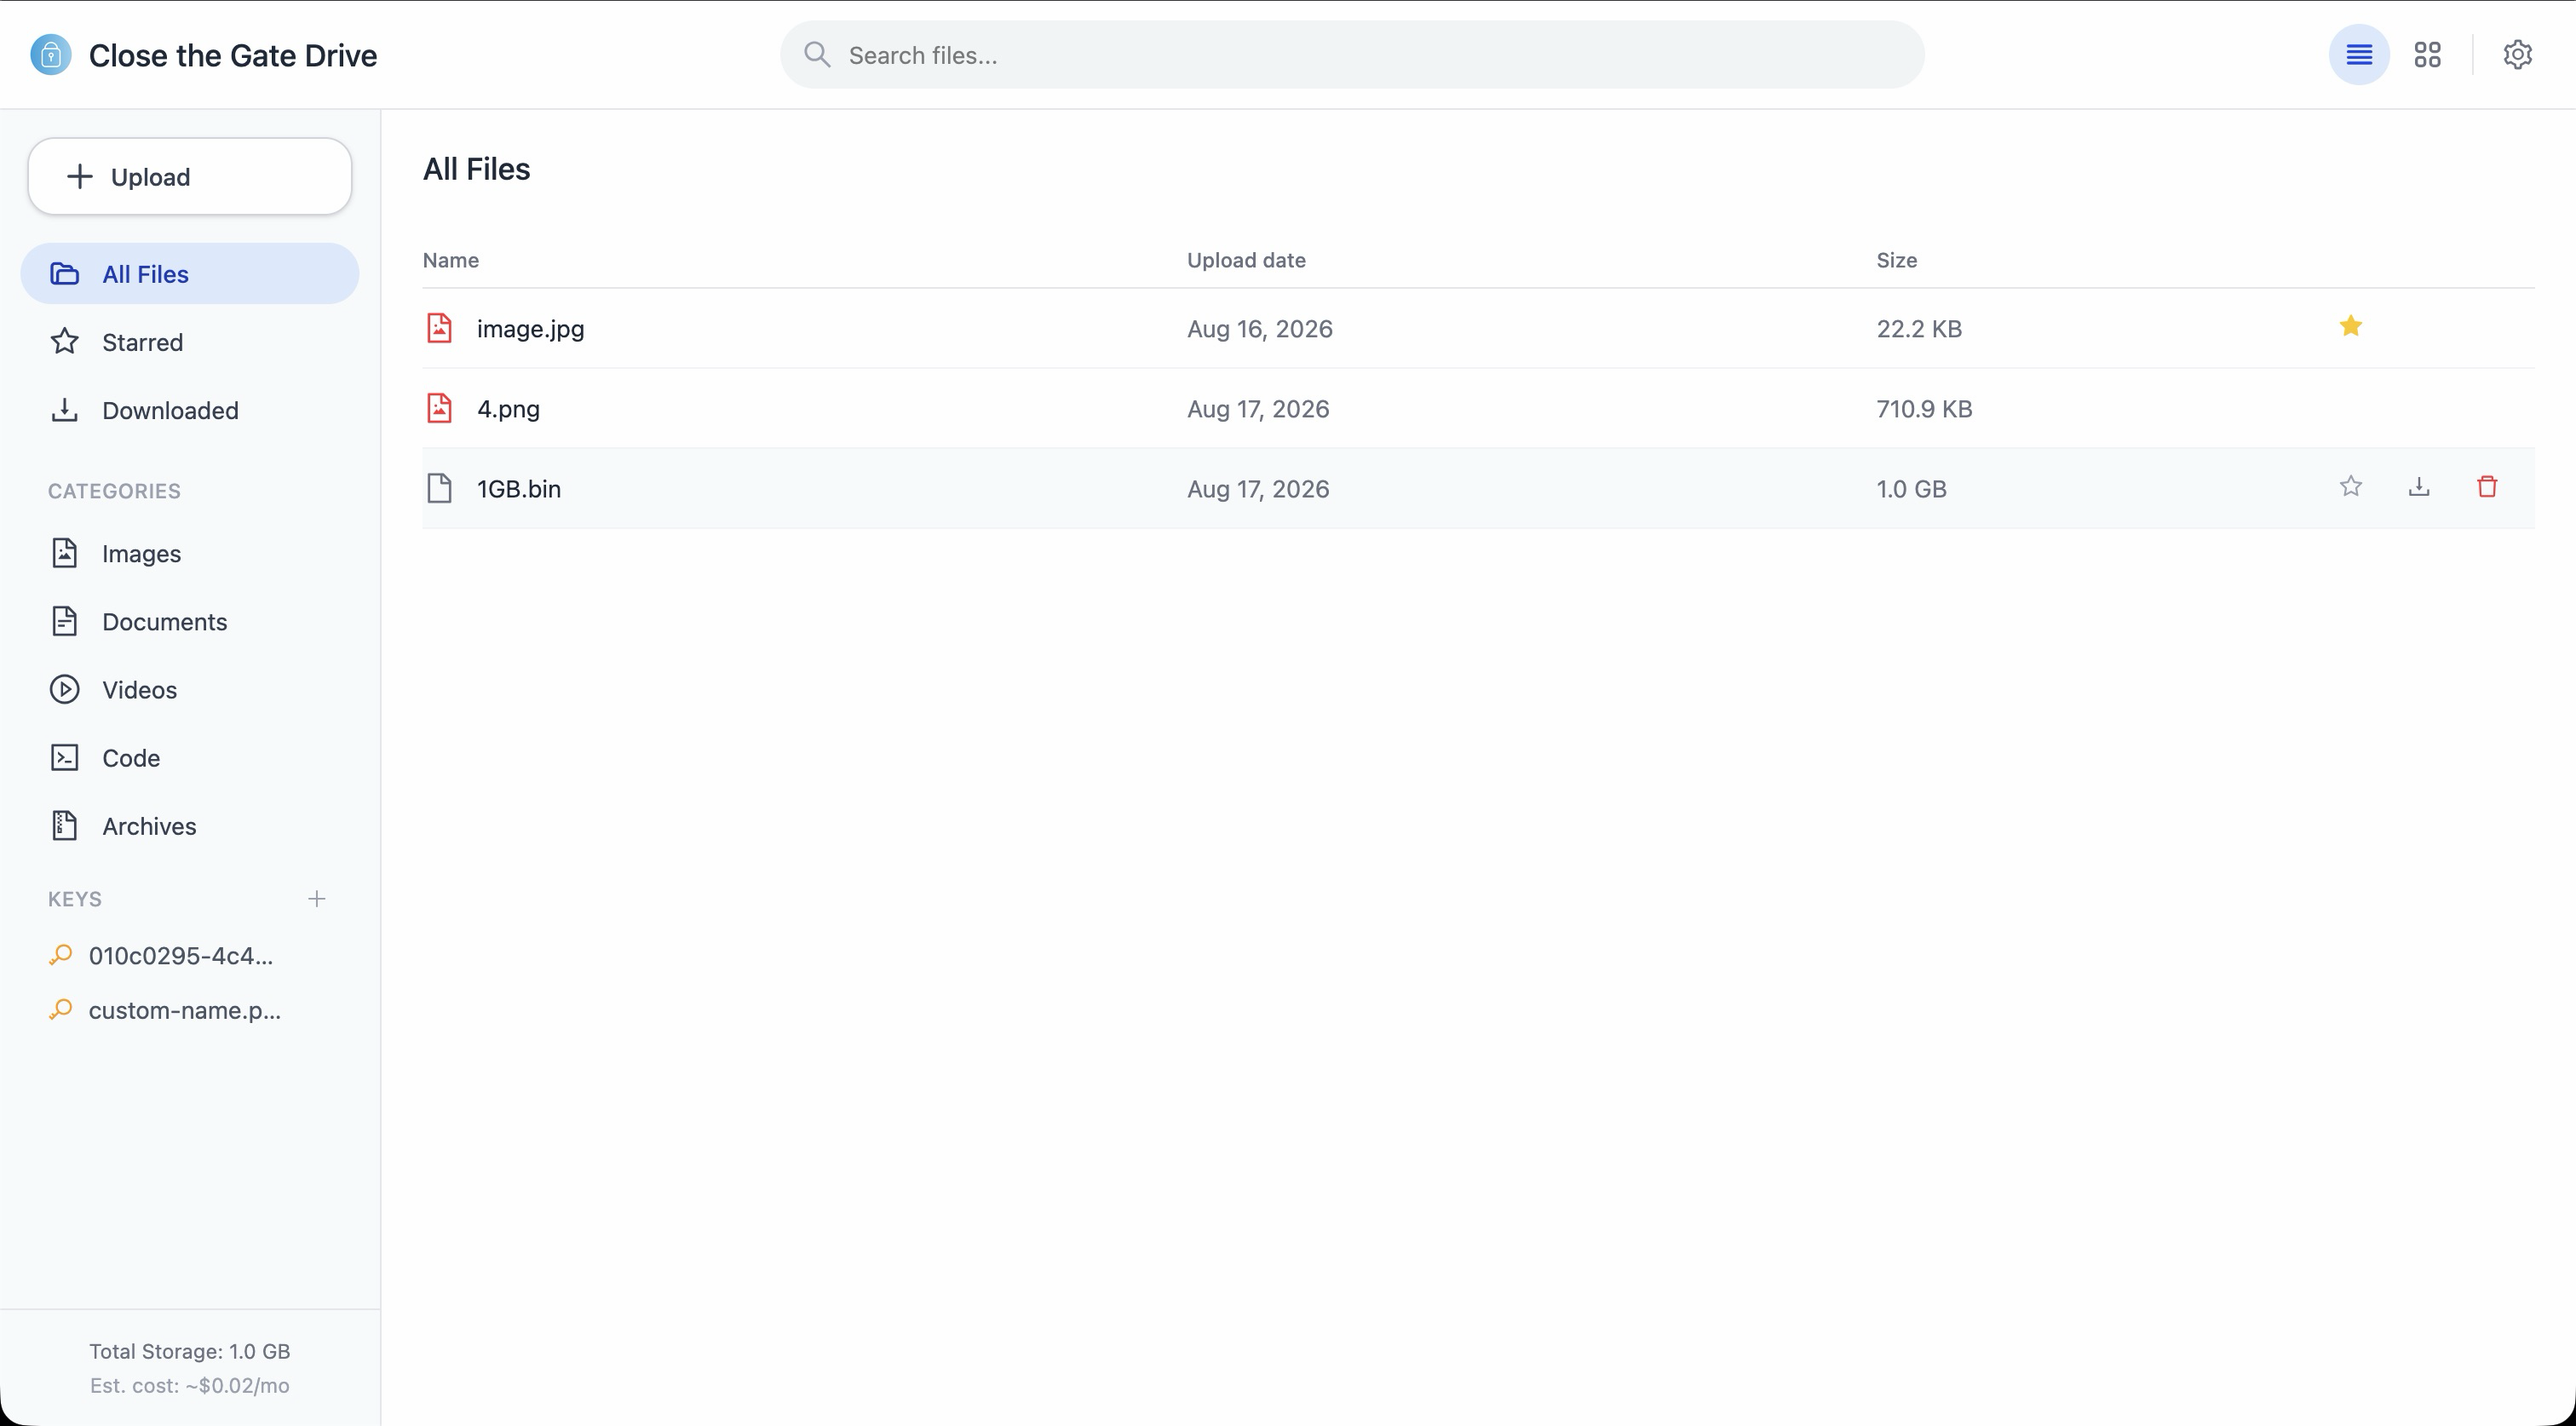
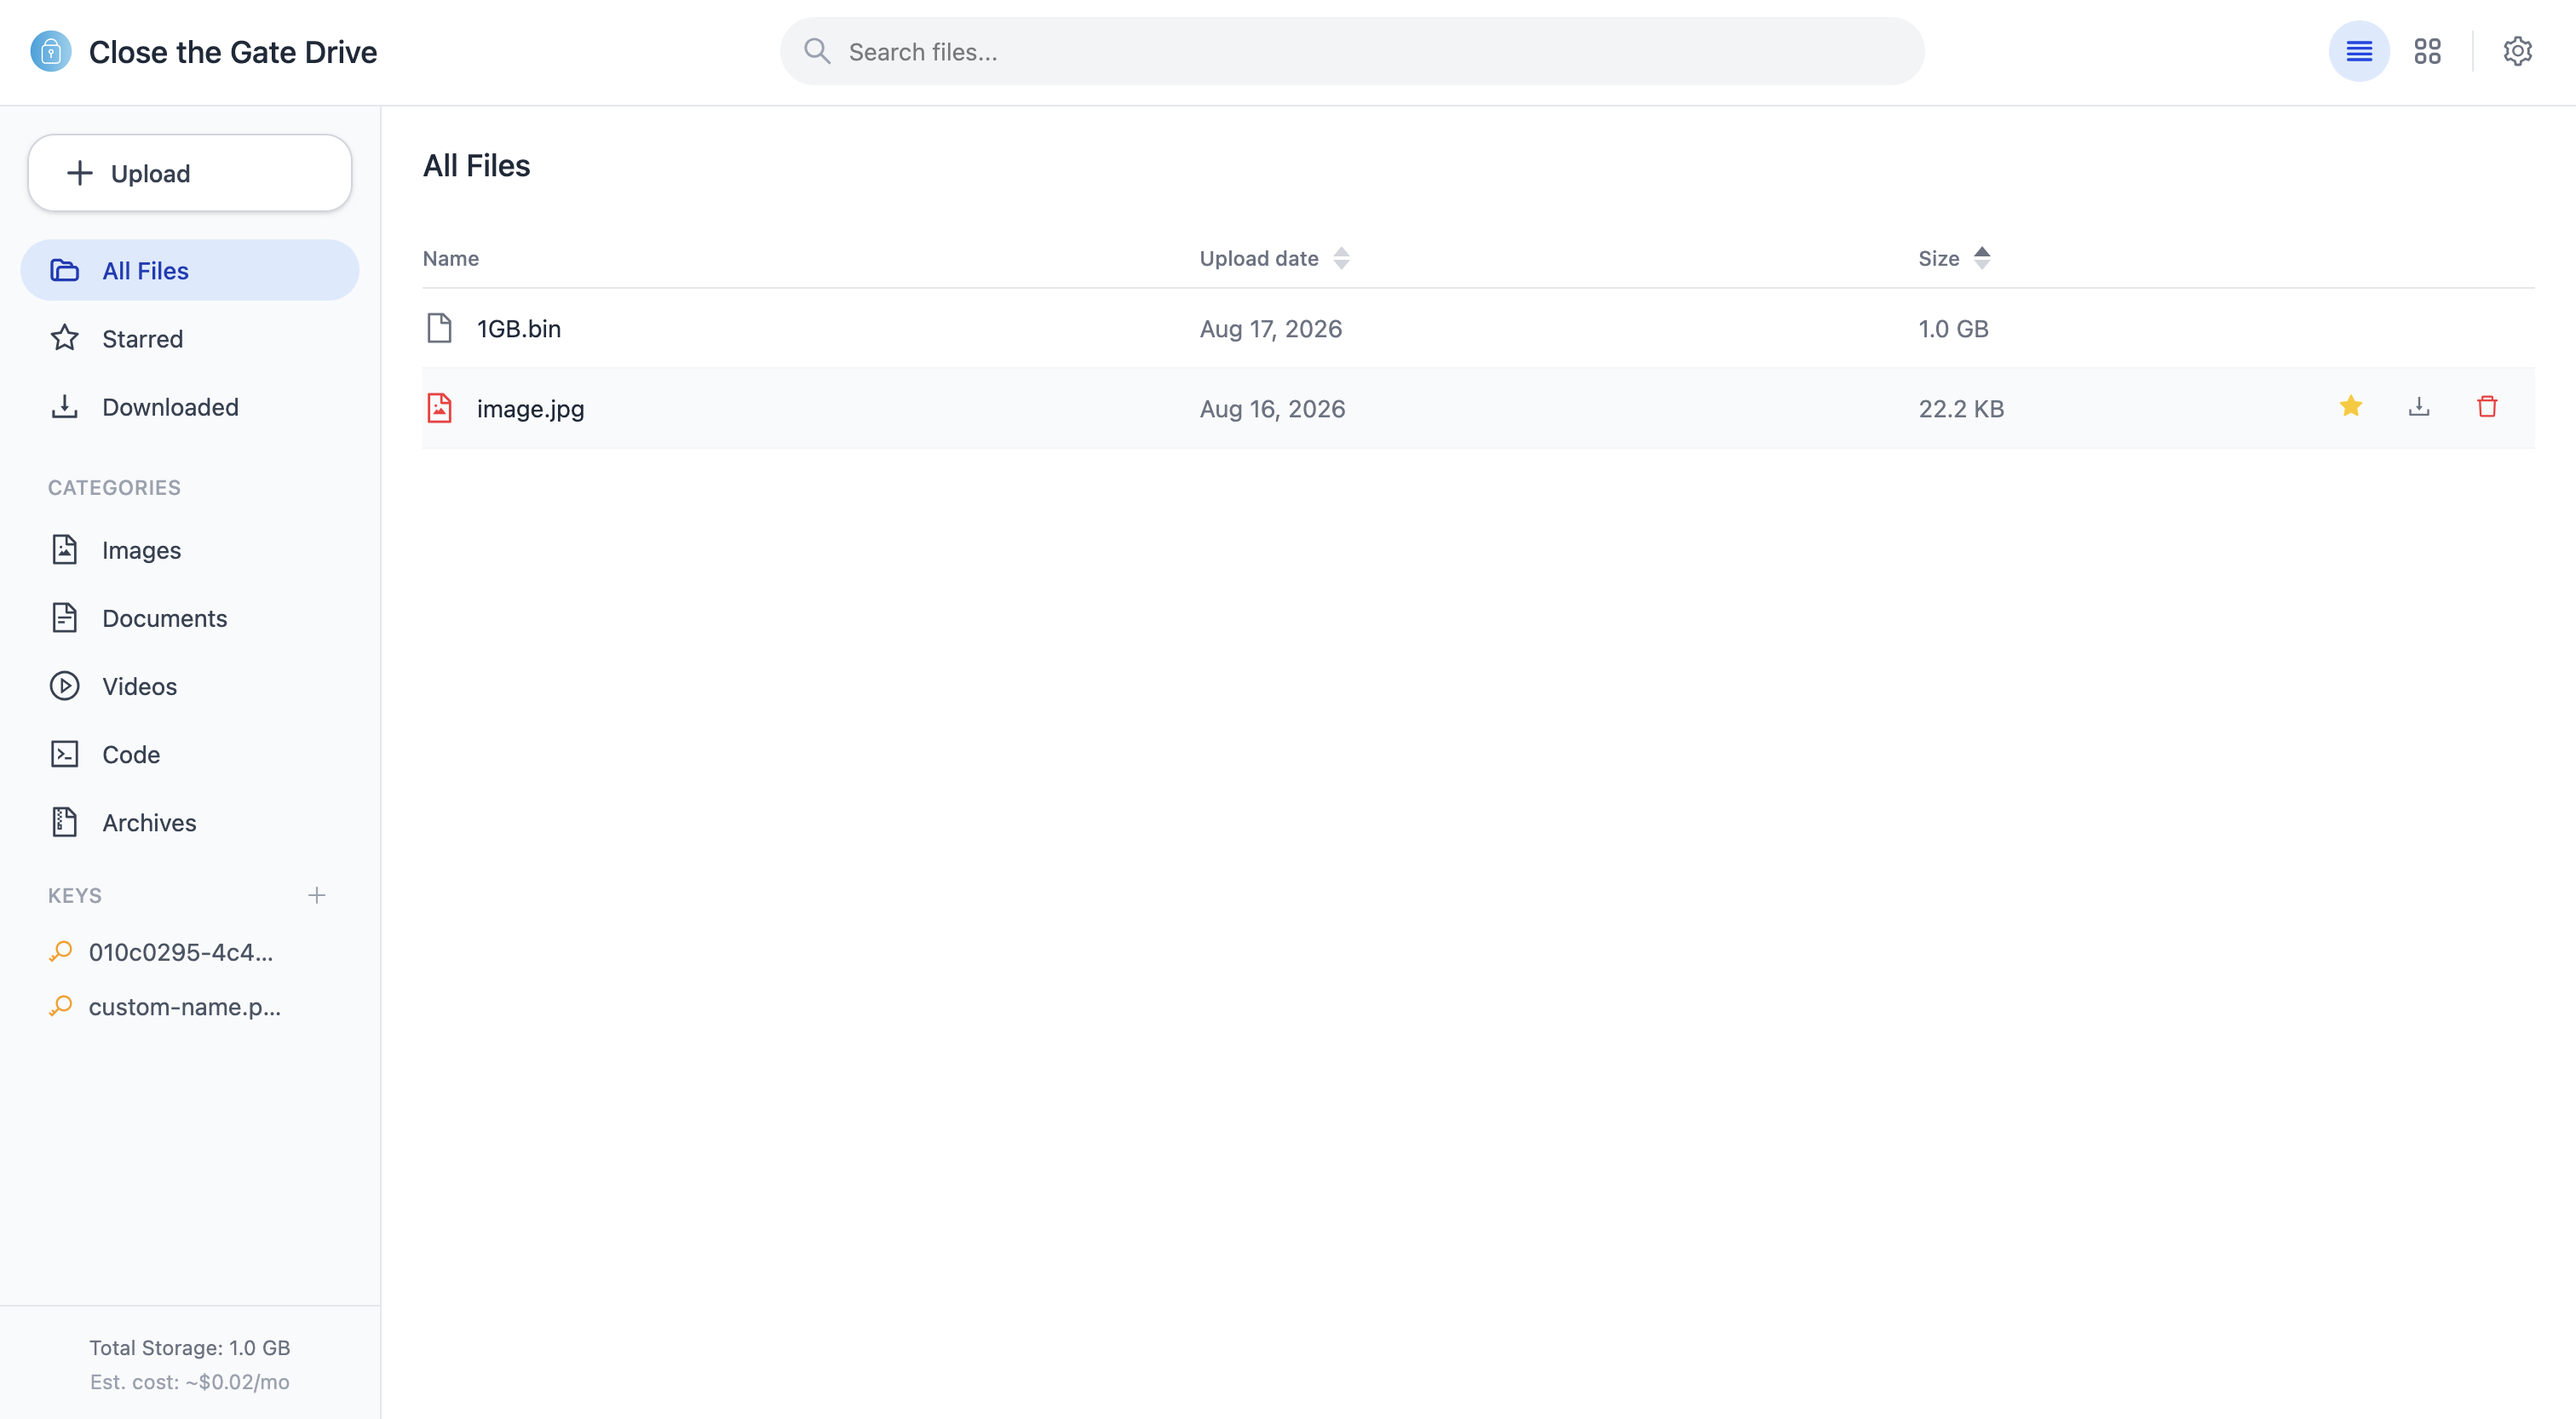
implement size & date filters

diff --git a/web/src/components/FileGrid.tsx b/web/src/components/FileGrid.tsx
@@ -1,6 +1,10 @@
+import { useState, useMemo } from 'react';
 import type { FileItem } from '../data/mockFiles';
 import { FileCard } from './FileCard';
 import { FileRow } from './FileRow';
+
+type SortField = 'uploadDate' | 'size';
+type SortDirection = 'asc' | 'desc';
 
 interface FileGridProps {
   files: FileItem[];
@@ -16,7 +20,56 @@ interface FileGridProps {
   hideDownload?: boolean;
 }
 
+function SortArrow({ field, activeField, direction }: { field: SortField; activeField: SortField | null; direction: SortDirection }) {
+  const isActive = field === activeField;
+  return (
+    <span className="inline-flex flex-col ml-2 -space-y-0.5">
+      <svg
+        className={`w-2.5 h-2.5 ${isActive && direction === 'desc' ? 'text-gray-500' : 'text-gray-300'}`}
+        viewBox="0 0 10 6"
+        fill="currentColor"
+      >
+        <path d="M5 0L10 6H0L5 0Z" />
+      </svg>
+      <svg
+        className={`w-2.5 h-2.5 ${isActive && direction === 'asc' ? 'text-gray-500' : 'text-gray-300'}`}
+        viewBox="0 0 10 6"
+        fill="currentColor"
+      >
+        <path d="M5 6L0 0H10L5 6Z" />
+      </svg>
+    </span>
+  );
+}
+
 export function FileGrid({ files, viewMode, onDownloadSuccess, onDownloadError, onFileOpen, onStarToggle, onDeleteSuccess, onDeleteError, onDeleteLocalSuccess, onDeleteLocalError, hideDownload }: FileGridProps) {
+  const [sortField, setSortField] = useState<SortField | null>(null);
+  const [sortDirection, setSortDirection] = useState<SortDirection>('desc');
+
+  function handleSort(field: SortField) {
+    if (sortField === field) {
+      // Toggle direction
+      setSortDirection((prev) => (prev === 'desc' ? 'asc' : 'desc'));
+    } else {
+      setSortField(field);
+      setSortDirection('desc');
+    }
+  }
+
+  const sortedFiles = useMemo(() => {
+    if (!sortField) return files;
+
+    return [...files].sort((a, b) => {
+      let cmp = 0;
+      if (sortField === 'size') {
+        cmp = a.size - b.size;
+      } else if (sortField === 'uploadDate') {
+        cmp = new Date(a.uploadDate).getTime() - new Date(b.uploadDate).getTime();
+      }
+      return sortDirection === 'asc' ? cmp : -cmp;
+    });
+  }, [files, sortField, sortDirection]);
+
   if (files.length === 0) {
     return (
       <div className="flex items-center justify-center h-64 text-gray-400">
@@ -32,15 +85,31 @@ export function FileGrid({ files, viewMode, onDownloadSuccess, onDownloadError, 
           <thead>
             <tr className="text-left text-xs text-gray-500 border-b border-gray-200">
               <th className="pb-2 font-medium">Name</th>
-              <th className="pb-2 font-medium">Upload date</th>
-              <th className="pb-2 font-medium">Size</th>
+              <th
+                className="pb-2 font-medium cursor-pointer select-none hover:text-gray-700 transition-colors"
+                onClick={() => handleSort('uploadDate')}
+              >
+                <span className="inline-flex items-center">
+                  Upload date
+                  <SortArrow field="uploadDate" activeField={sortField} direction={sortDirection} />
+                </span>
+              </th>
+              <th
+                className="pb-2 font-medium cursor-pointer select-none hover:text-gray-700 transition-colors"
+                onClick={() => handleSort('size')}
+              >
+                <span className="inline-flex items-center">
+                  Size
+                  <SortArrow field="size" activeField={sortField} direction={sortDirection} />
+                </span>
+              </th>
               <th className="pb-2 font-medium w-10"></th>
               {!hideDownload && <th className="pb-2 font-medium w-10"></th>}
               <th className="pb-2 font-medium w-10"></th>
             </tr>
           </thead>
           <tbody>
-            {files.map((file) => (
+            {sortedFiles.map((file) => (
               <FileRow
                 key={file.fileName}
                 file={file}
@@ -64,7 +133,7 @@ export function FileGrid({ files, viewMode, onDownloadSuccess, onDownloadError, 
   return (
     <div className="p-6">
       <div className="grid grid-cols-2 sm:grid-cols-3 md:grid-cols-4 lg:grid-cols-5 gap-3">
-        {files.map((file) => (
+        {sortedFiles.map((file) => (
           <FileCard
             key={file.fileName}
             file={file}
